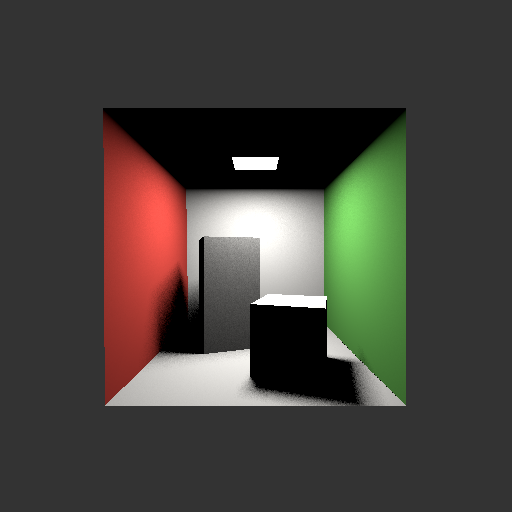
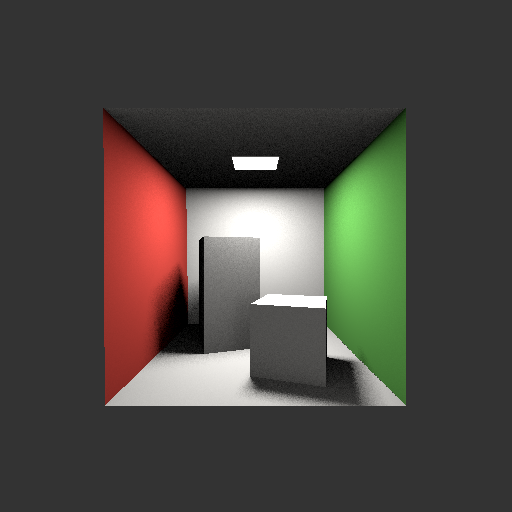
tp3: finish

Changed region(s): [[0.1875, 0.1875, 0.7812, 0.3438], [0.3438, 0.4688, 0.7188, 0.8125]]

diff --git a/projets/tp3.cpp b/projets/tp3.cpp
@@ -243,6 +243,71 @@ struct Scene
 
         return L_r;
     }
+
+    Color compute_L_r_sky_sample(Point p, Vector n, Material material, Color sky_color,
+                                 int N_iter,
+                                 std::default_random_engine& rng,
+                                 std::uniform_real_distribution<float>& dist)
+    {
+        Color L = {};
+
+        // Create orthonormal basis with n as Z-axis
+        Vector tangent = (std::abs(n.x) < 0.9f) ? normalize(cross(n, Vector(1, 0, 0))) : normalize(cross(n, Vector(0, 1, 0)));
+        Vector bitangent = normalize(cross(n, tangent));
+
+        for (int i = 0; i < N_iter; i++) {
+            // Uniform random sampling over hemisphere
+            float u1 = dist(rng);
+            float u2 = dist(rng);
+            
+            // Cosine-weighted hemisphere sampling
+            float cos_theta = std::sqrt(1.0f - u1 * u1);
+            float sin_theta = std::sqrt(u1 * u1);
+            float phi = 2.0f * M_PI * u2;
+            
+            // Generate direction in local hemisphere frame
+            Vector wi = sin_theta * std::cos(phi) * tangent + 
+                        sin_theta * std::sin(phi) * bitangent + 
+                        cos_theta * n;
+            
+            Point p_eps = p + epsilon_point(p) * n;
+            Point q = p_eps + wi * 1000.0f;
+            
+            if (visible(p_eps, q)) {
+                // cos_theta is already built into cosine-weighted sampling
+                Color contrib = material.diffuse / M_PI * sky_color * cos_theta;
+                L = L + contrib;
+            }
+        }
+
+        return L / N_iter;
+    }
+
+    Color compute_L_r_sky(Hit hit, Color sky_color) 
+    {
+        // Compute global coordinates and normal
+        Triangle tri = triangles[hit.triangle_id];
+        Point p = { tri.p.x + hit.u * tri.e1.x + hit.v * tri.e2.x,
+                    tri.p.y + hit.u * tri.e1.y + hit.v * tri.e2.y,
+                    tri.p.z + hit.u * tri.e1.z + hit.v * tri.e2.z };
+        Vector n = normalize(cross(tri.e1, tri.e2));
+        int material_id = material_indices[hit.triangle_id];
+        Material& material = materials(material_id);
+        
+        Color L_r = {};
+        int N_iter = 64;
+        
+        // Random number generator
+        static std::random_device hwseed;
+        static std::default_random_engine rng(hwseed());
+        std::uniform_real_distribution<float> uniform(0.0f, 1.0f);
+        
+        // Monte Carlo integration for sky lighting
+        L_r = compute_L_r_sky_sample(p, n, material, sky_color, N_iter, rng, uniform);
+
+        return L_r;
+    }
+
 };
 
 struct Emission
@@ -334,8 +399,8 @@ int main( )
             if (hit.t < INFINITY) {
                 
                 Color L_r = scene.compute_L_r_sources(hit);
-                //Color l_r_sun = scene.compute_L_r(hit, sun.color, sun.p);
-                image(px, py) = srgb(L_r);
+                Color L_sky = scene.compute_L_r_sky(hit, Color(0.5));  // Sky color
+                image(px, py) = srgb(L_r + L_sky);
             } else {
                 image(px, py) = Color(0.2);
             }
